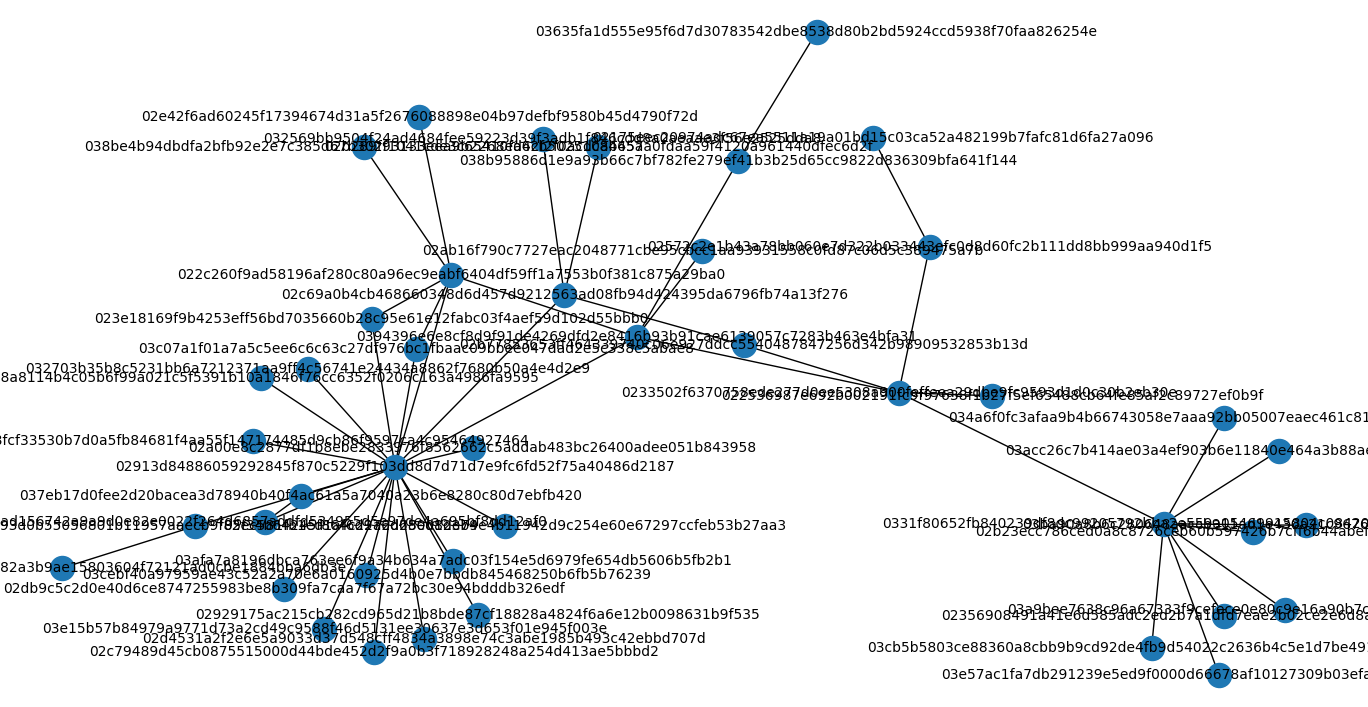
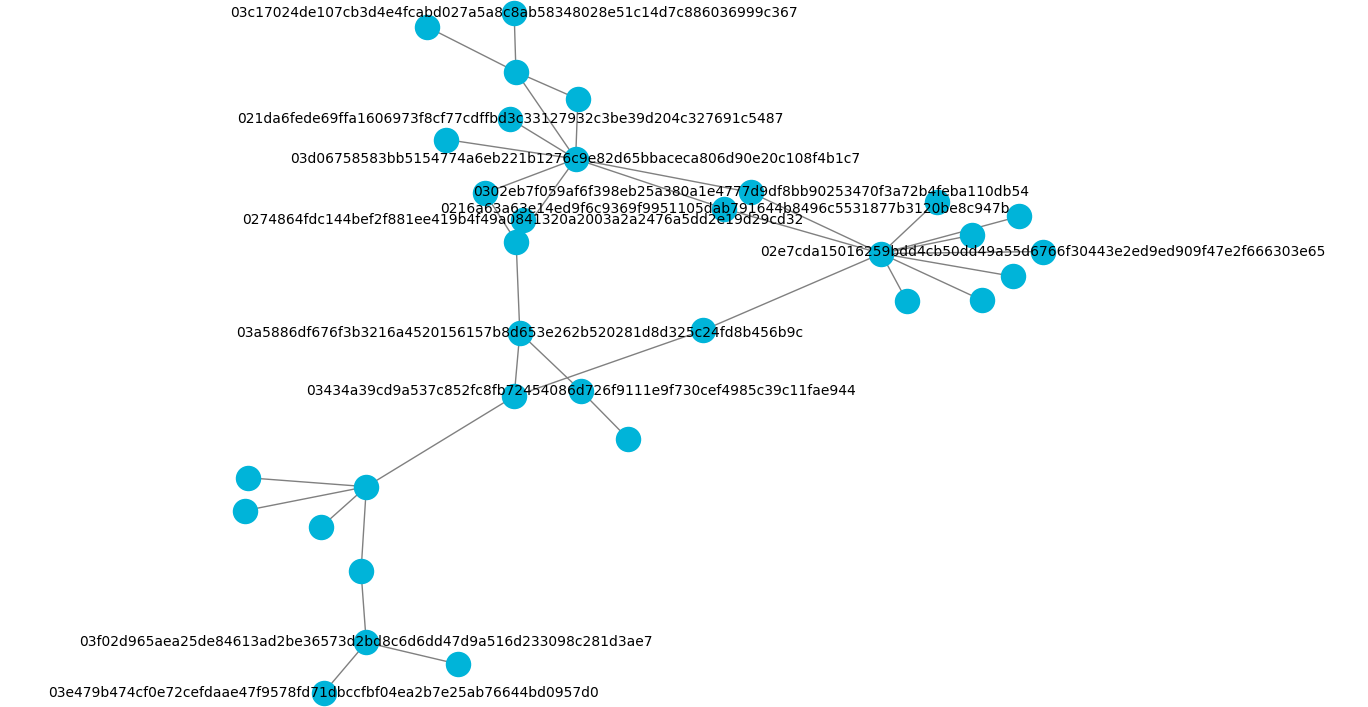
erasing some node ids for better visualization

Changed region(s): [[0.0, 0.0, 1.0, 1.0], [0.6447, 0.6846, 1.0, 0.9646]]

diff --git a/simulation/distributedrouting.py b/simulation/distributedrouting.py
@@ -18,7 +18,7 @@ class DistributedRouting:
         #           hop(nextHop, maxCapacity)
         #
         self.routingTables = defaultdict(dict)
-        self.addresses = LNAddresses.LNAddresses()
+        self.lnAddresses = LNAddresses.LNAddresses()
         self.channels = defaultdict(dict)
 
         # Start by giving each node an LN address
@@ -47,7 +47,7 @@ class DistributedRouting:
         nodeBlocks.sort(key=blockSort)
 
         # Setup the initial address for the first transaction manually and save it
-        self.addresses.addLNAddress("0.0.0.0", nodeBlocks[0]["firstNeighbourNode"])
+        self.lnAddresses.addLNAddress("0.0.0.0", nodeBlocks[0]["firstNeighbourNode"])
 
         # Get an LN address for each node
         for nodeBlock in nodeBlocks:
@@ -56,28 +56,28 @@ class DistributedRouting:
             nodeKey = nodeBlock["node"]
 
             # Assign the LN address to the neighbour node
-            neighbourAddress = self.addresses.getLNAddress(nodeBlock["firstNeighbourNode"])
+            neighbourAddress = self.lnAddresses.getLNAddress(nodeBlock["firstNeighbourNode"])
             # If the neighbour doesn't have an address yet get him a random one
             if not neighbourAddress:
-                neighbourAddress = self.addresses.getNewRandomLNAddress()
-                self.addresses.addLNAddress(neighbourAddress, nodeKey)
+                neighbourAddress = self.lnAddresses.getNewRandomLNAddress()
+                self.lnAddresses.addLNAddress(neighbourAddress, nodeKey)
 
             # Get an address related to our neighbour if we don't have one
-            if not self.addresses.getLNAddress(nodeKey):
+            if not self.lnAddresses.getLNAddress(nodeKey):
                 # Save this address
-                self.addresses.addLNAddress(self.addresses.getNewRelatedLNAddress(neighbourAddress), nodeKey)
-
+                self.lnAddresses.addLNAddress(self.lnAddresses.getNewRelatedLNAddress(neighbourAddress), nodeKey)
+                
         # Visualize graph with addresses
-        # nx.draw(G, with_labels=True, labels=self.addresses.getAddressesDic(), font_size=16, label="Leftover LN")
-        # plt.show()
+        nx.draw(G, with_labels=True, labels=self.lnAddresses.getLNAdressesDic(), font_size=16, label="Leftover LN", node_color='#00b4d9', edge_color="gray")
+        plt.show()
 
         # Add routing tables
         for node in nodes:
-            nodeAddress = self.addresses.getLNAddress(node)
+            nodeAddress = self.lnAddresses.getLNAddress(node)
 
             # Build the channels
             for neighbour, channelData in G[node].items():
-                neighbourNodeAddress = self.addresses.getLNAddress(neighbour)
+                neighbourNodeAddress = self.lnAddresses.getLNAddress(neighbour)
                 self.channels[nodeAddress][neighbourNodeAddress] = channelData[neighbour]
 
             self.addRoutingTable(nodeAddress)
@@ -183,8 +183,8 @@ class DistributedRouting:
     # If the path is not valid (not enough capacity) return 2. If the payment was successful then return 0.
     def simulatePayment(self, source, destination, amount):
 
-        sourceAddress = self.addresses.getLNAddress(source)
-        destinationAddress = self.addresses.getLNAddress(destination)
+        sourceAddress = self.lnAddresses.getLNAddress(source)
+        destinationAddress = self.lnAddresses.getLNAddress(destination)
 
         path = self.getRoutingPath(sourceAddress, destinationAddress)
 

diff --git a/simulation/sim.py b/simulation/sim.py
@@ -7,15 +7,15 @@ import payment as pmt
 import random
 
 # Number of simulation runs
-nSimulation = 10
+nSimulation = 1
 # Number of payments in each simulation run
 nPayments = 200
 # Payments gaussian mean weight to be multiplied by average channel balance
-payments_mu_weight = 1
+payments_mu_weight = 0.1
 # Payemnts gaussian standard deviation
 payments_sigma_weight = payments_mu_weight/2
 # Number of nodes to have before stopping removing nodes
-nNodes = 600
+nNodes = 280
 # Number of routing gossip messages to be sent in-between payments
 nRoutingGossip = 10
 
@@ -73,9 +73,16 @@ for i in range(nSimulation):
     G = G.subgraph(largest_cc)
     print("Biggest component has " + str(G.number_of_nodes()) + " nodes.")
 
+    # Reduce number of labels to half so they're easier to visualize
+    nodes = list(G.nodes)
+    random.shuffle(nodes)
+    labelDic = dict(zip(nodes, nodes))
+    for i in range(0, int(len(nodes)/1.5)):
+        labelDic[nodes[i]] = ""
+
     # Visualize graph
-    # nx.draw(G, with_labels=True, font_size=8, label="Leftover LN")
-    # plt.show()
+    nx.draw(G, with_labels=True, labels=labelDic, font_size=10, label="Leftover LN", node_color='#00b4d9', edge_color="gray")
+    plt.show()
 
     # Create channel state balances
     balances = []
@@ -93,7 +100,6 @@ for i in range(nSimulation):
     payments_sigma = medianBalance*payments_sigma_weight
 
     # Simulate with n payments between two nodes
-    nodes = list(G.nodes)
     payments = pmt.createPayments(nPayments, nodes, payments_mu, payments_sigma)
     print("Simulating " + str(nPayments) + " payments")
 

diff --git a/simulation/LNAddresses.py b/simulation/LNAddresses.py
@@ -6,8 +6,8 @@ class LNAddresses:
 
     def __init__(self):
         self.addressTree = tree.Tree()
-        self.addressesDic = {}
         self.lnAddressesDic = {}
+        self.addressesDic = {}
 
     def getNewRandomLNAddress(self):
 
@@ -20,7 +20,7 @@ class LNAddresses:
             if not self.addressTree.addressExists(randomAddress):
                 return randomAddress
 
-    def getAddressesDic(self):
+    def getLNAdressesDic(self):
         return self.lnAddressesDic
 
     def getNewRelatedLNAddress(self, neighbourAddress):
@@ -33,10 +33,10 @@ class LNAddresses:
             # Had an error while looking up a new address and the return was null
             return None
 
-    def addLNAddress(self, address, node):
-        self.addressTree.addAddress(address)
-        self.lnAddressesDic[node] = address
-        self.addressesDic[address] = node
+    def addLNAddress(self, lnAddress, node):
+        self.addressTree.addAddress(lnAddress)
+        self.addressesDic[lnAddress] = node
+        self.lnAddressesDic[node] = lnAddress
         # print("Address '" + address + "' added to the database.")
 
         return
